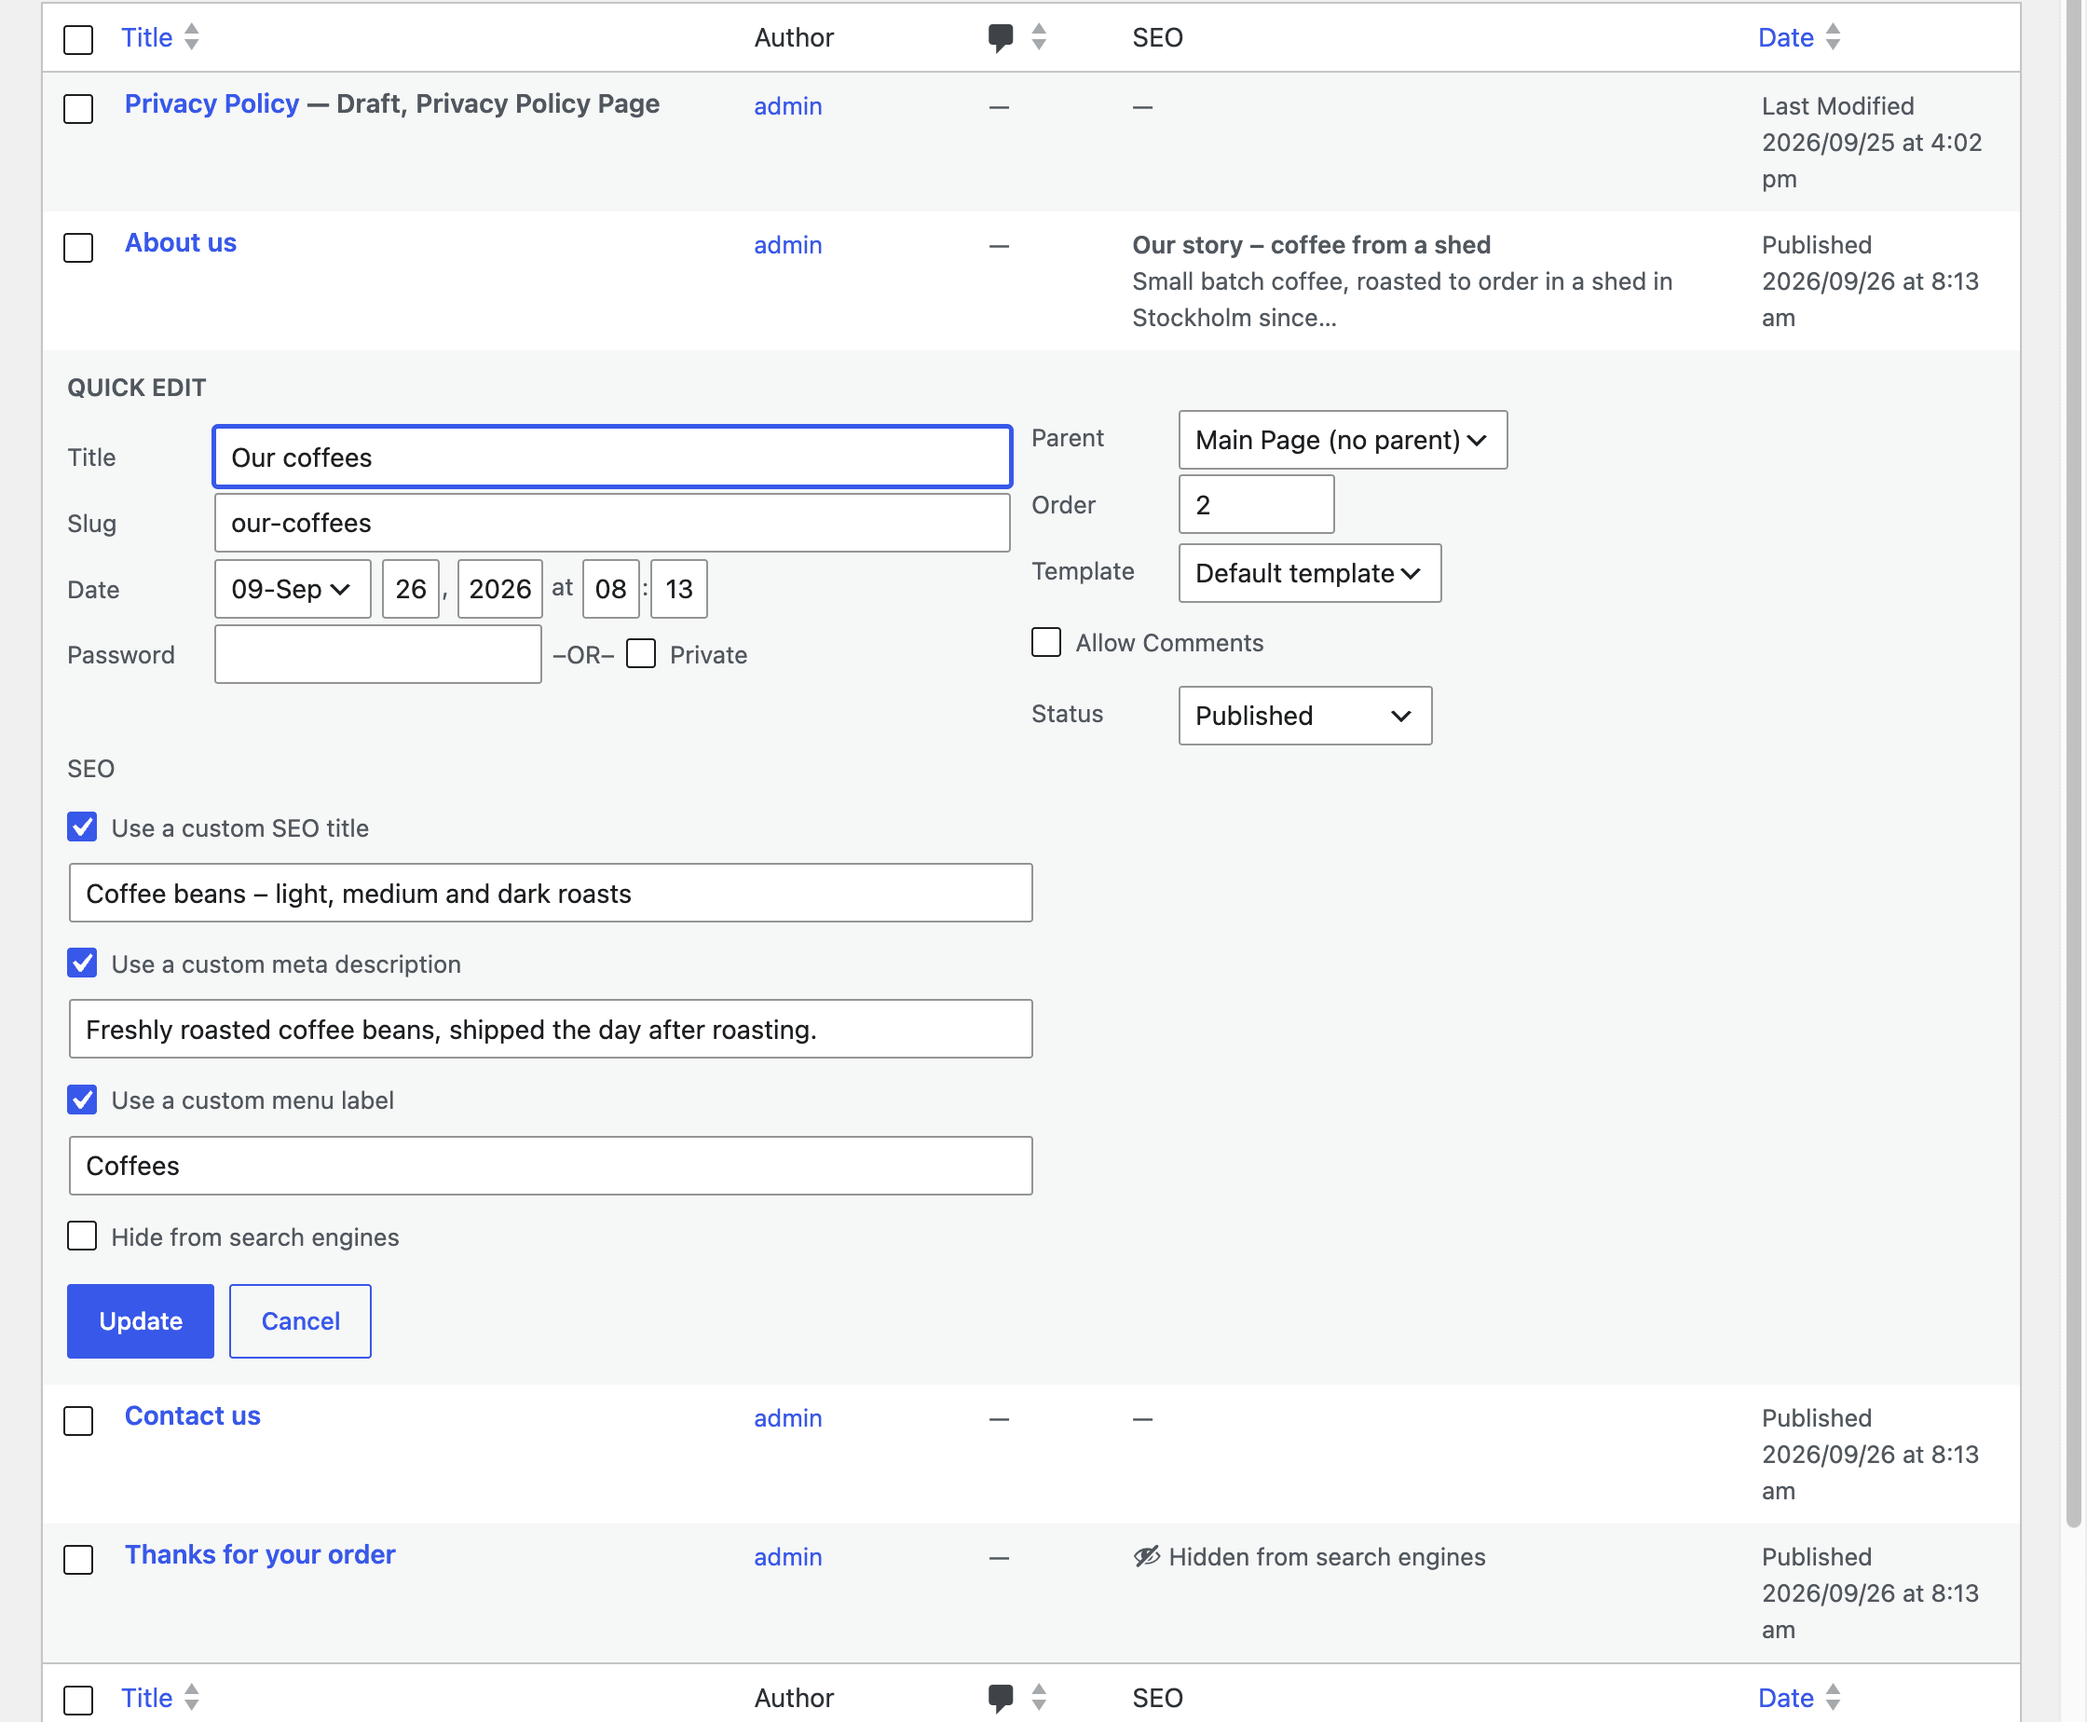
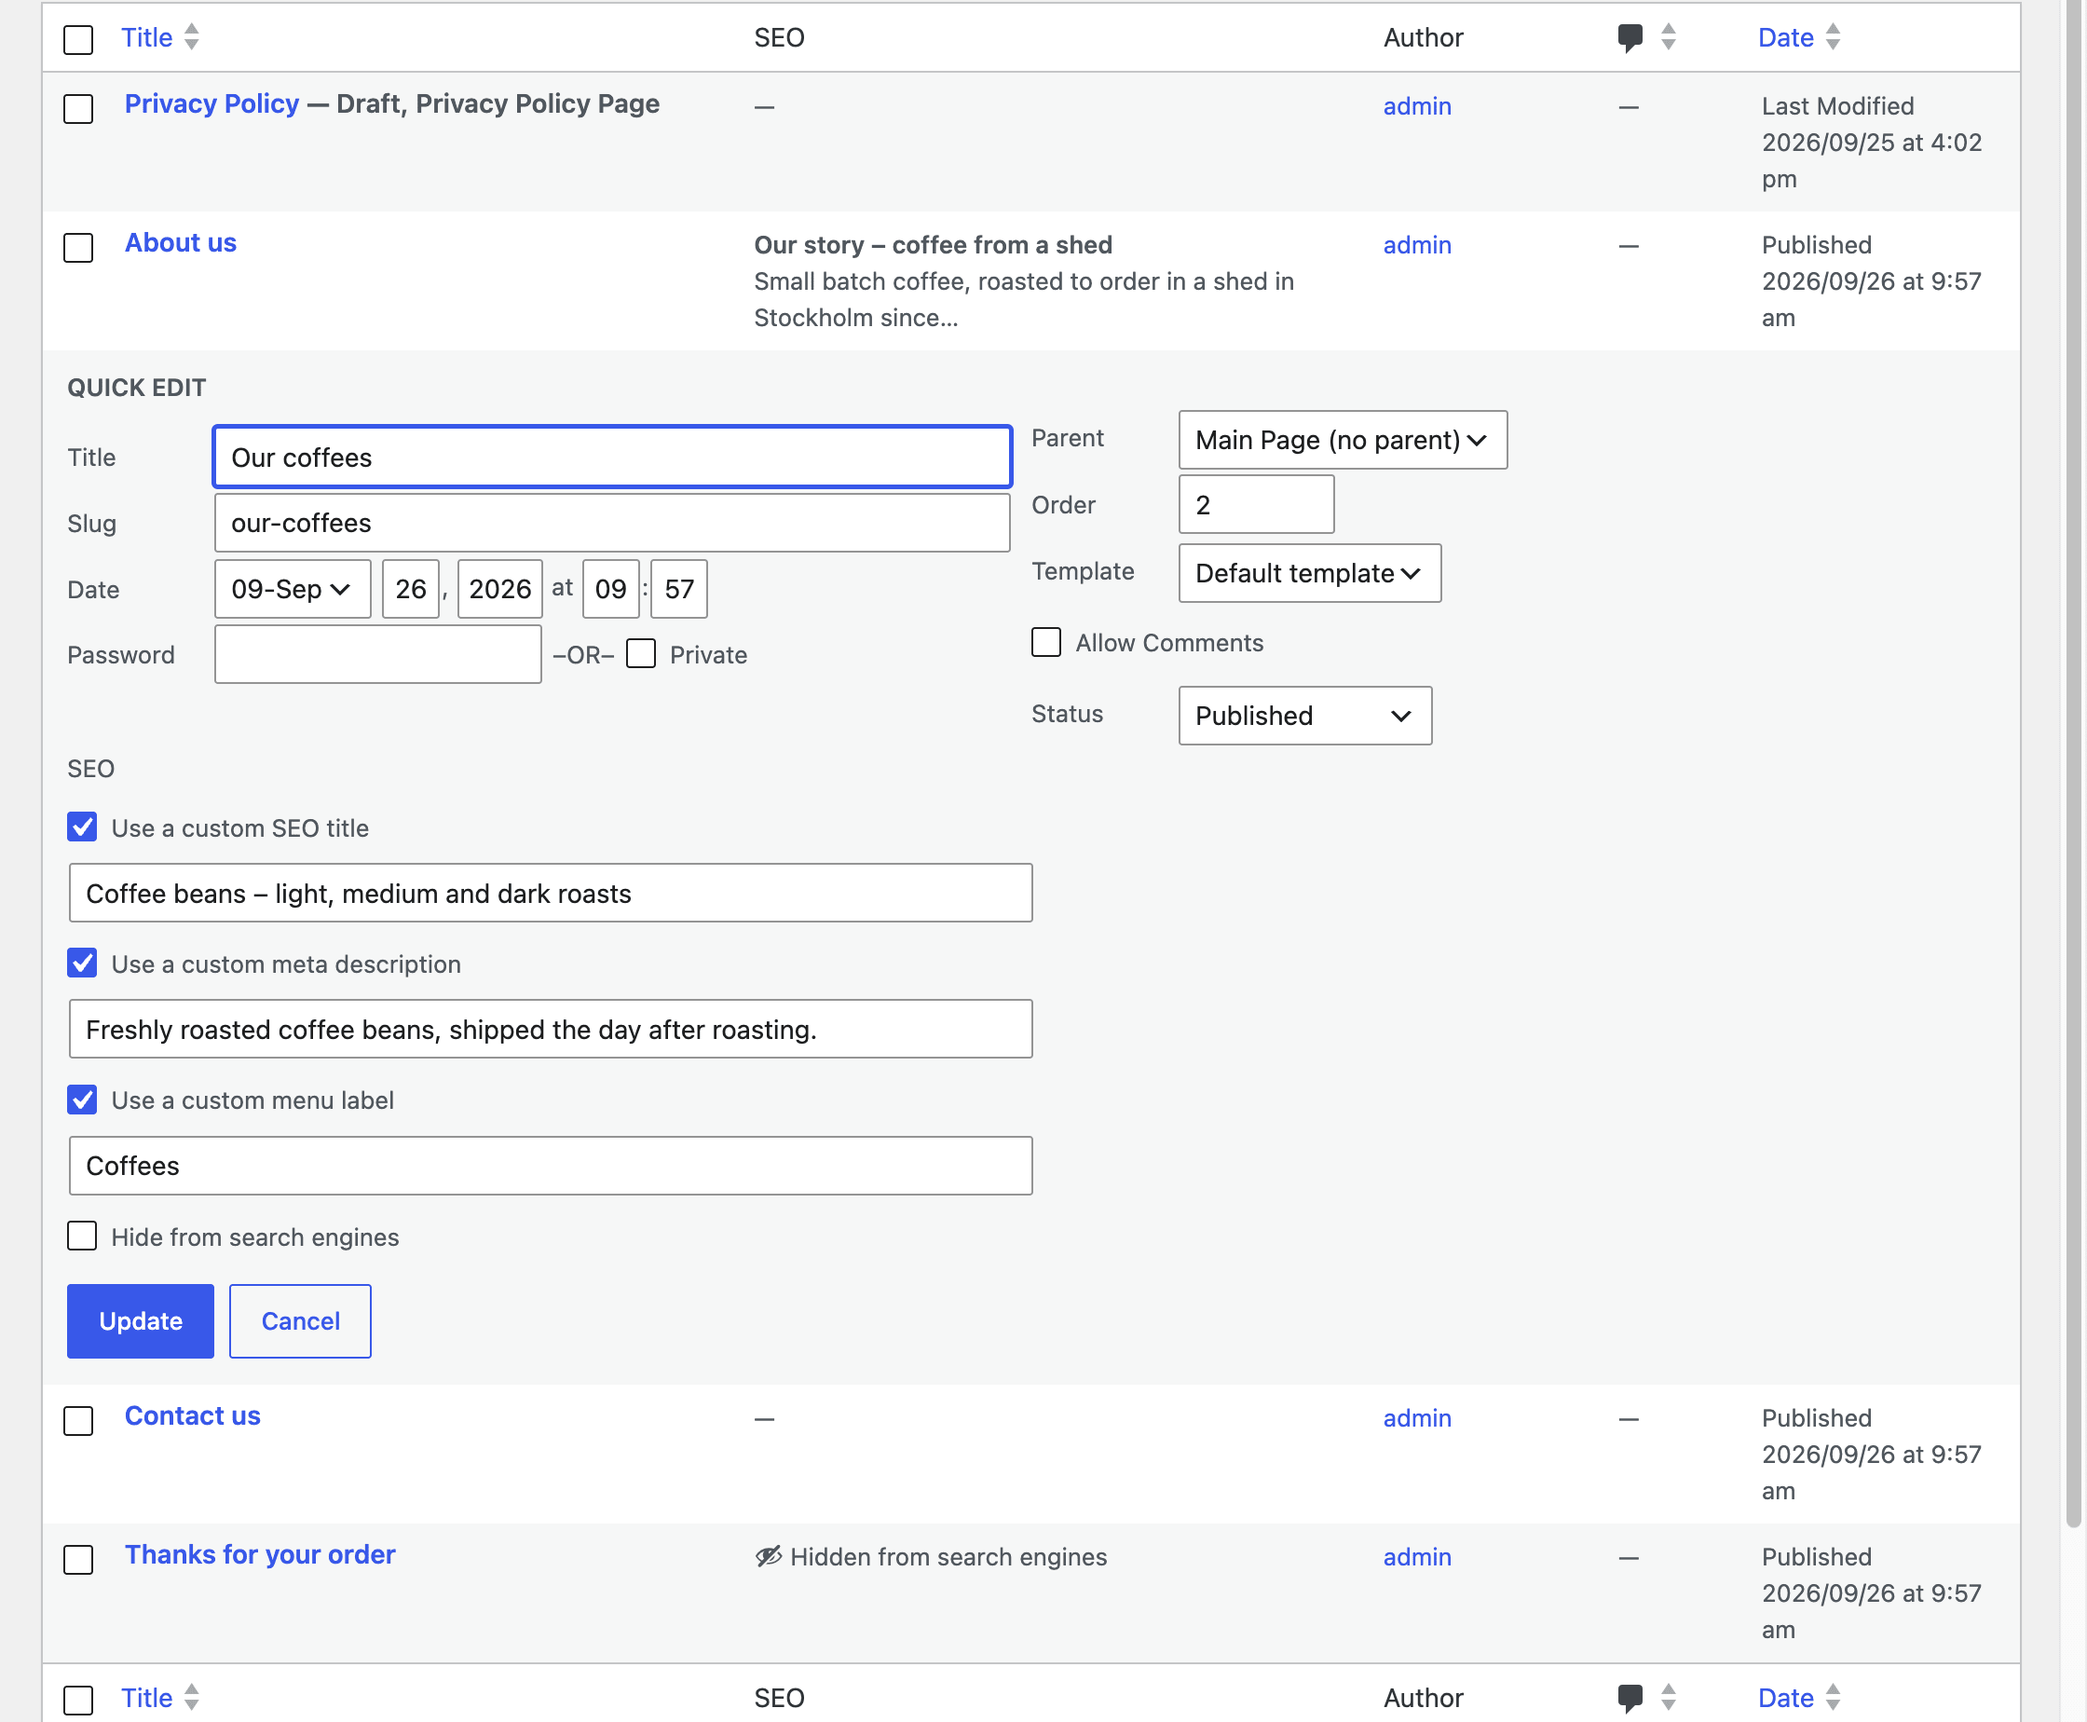
SEO column right after the title
It's the alternative to the title, so they read best side by side.
Screenshots retaken.

diff --git a/.claude/skills/visual-check/capture-screenshots.js b/.claude/skills/visual-check/capture-screenshots.js
@@ -17,9 +17,9 @@
 async ( page ) => {
 	const WP_ENV = 'http://localhost:8315';
 	const CLASSIC = 'http://wp-playground-classiceditor.test:8314';
-	const WP_ENV_PAGE = 46; // "About us" from seed.php on wp-env.
-	const WP_ENV_QUICK_EDIT = 47; // "Our coffees", opened in Quick Edit in shot 2.
-	const CLASSIC_PAGE = 81; // "About us" from seed.php on the Classic Editor site.
+	const WP_ENV_PAGE = 52; // "About us" from seed.php on wp-env.
+	const WP_ENV_QUICK_EDIT = 53; // "Our coffees", opened in Quick Edit in shot 2.
+	const CLASSIC_PAGE = 88; // "About us" from seed.php on the Classic Editor site.
 	const X = 160; // Right of the admin menu.
 	const WIDTH = 1120;
 

diff --git a/src/list-table.php b/src/list-table.php
@@ -22,7 +22,7 @@ add_action( 'quick_edit_custom_box', __NAMESPACE__ . '\\quick_edit_fields', 10, 
 add_action( 'admin_enqueue_scripts', __NAMESPACE__ . '\\enqueue_quick_edit_script' );
 
 /**
- * Add the column before the date.
+ * Add the column right after the title, since the SEO title is an alternative to it.
  *
  * @param array<string, string> $columns   Columns.
  * @param string                $post_type Post type.
@@ -35,15 +35,22 @@ function add_column( $columns, $post_type = 'page' ): array {
 		return $columns;
 	}
 
-	$date = $columns['date'] ?? null;
-	unset( $columns['date'] );
-	$columns[ COLUMN ] = __( 'SEO', 'simple-seo' );
+	$added = [];
 
-	if ( null !== $date ) {
-		$columns['date'] = $date;
+	foreach ( $columns as $key => $label ) {
+		$added[ $key ] = $label;
+
+		if ( 'title' === $key ) {
+			$added[ COLUMN ] = __( 'SEO', 'simple-seo' );
+		}
 	}
 
-	return $columns;
+	// No title column (another plugin removed it): add it at the end.
+	if ( ! isset( $added[ COLUMN ] ) ) {
+		$added[ COLUMN ] = __( 'SEO', 'simple-seo' );
+	}
+
+	return $added;
 }
 
 /**

diff --git a/tests/php/ListTableTest.php b/tests/php/ListTableTest.php
@@ -19,10 +19,11 @@ class ListTableTest extends SimpleSEO_TestCase {
 		parent::tear_down();
 	}
 
-	public function test_column_goes_before_the_date() {
-		$columns = SimpleSEO\add_column( [ 'title' => 'Title', 'date' => 'Date' ], 'post' );
+	public function test_column_goes_after_the_title() {
+		$columns = SimpleSEO\add_column( [ 'cb' => '', 'title' => 'Title', 'author' => 'Author', 'date' => 'Date' ], 'post' );
 
-		$this->assertSame( [ 'title', 'simple_seo', 'date' ], array_keys( $columns ) );
+		$this->assertSame( [ 'cb', 'title', 'simple_seo', 'author', 'date' ], array_keys( $columns ) );
+		$this->assertSame( [ 'date', 'simple_seo' ], array_keys( SimpleSEO\add_column( [ 'date' => 'Date' ], 'post' ) ) );
 		$this->assertArrayNotHasKey( 'simple_seo', SimpleSEO\add_column( [ 'title' => 'Title' ], 'attachment' ) );
 	}
 

diff --git a/CLAUDE.md b/CLAUDE.md
@@ -45,7 +45,7 @@ Released: 0.3.5. `main` holds unreleased 1.0 work.
   - The menu label only affects `get_pages()` / `wp_list_pages()`. That includes the Page List block (`wp-includes/blocks/page-list.php` calls `get_pages()`), which an empty Navigation block falls back to: WordPress creates a `wp_navigation` post containing `<!-- wp:page-list /-->` (verified in Twenty Twenty-Three on the php74 site). It does not reach classic menus or Navigation blocks with hand-picked Page Link blocks, which store their own labels.
 - Block editor: `src/block-editor.php` loads `build/editor-panel.js` (source `js/editor-panel.js`) on the post edit screen only. A "Simple SEO" `PluginDocumentSettingPanel` made of core components, reading and writing the meta with `useEntityProp`, so it saves with the post. Same checkbox + text pattern as the Classic box. It renders nothing for post types without `custom-fields` support. Keep it looking like core: stable `@wordpress/components` only (`__experimental*` fails lint), core wording and spacing, one short help line per field, the other-plugin message as a plain help paragraph (core panels don't use Notices). Pass only changed keys to `setMeta()` (meta edits are merged). Checkbox state follows the meta, local state only for "ticked but empty", so undo works. Keep `__nextHasNoMarginBottom` / `__next40pxDefaultSize` until the floor is WordPress 7.0 (default there, warnings without them on 6.7–6.9); never pass `__next40pxDefaultSize` to `TextareaControl`. Reviewed against WP 7.1 and Gutenberg trunk on 2026-09-25: no deprecated APIs, and DataForm isn't usable by plugins yet.
 - Naming (Pär, 2026-09-26, after a UX and an art director review): the block editor panel and the Classic box are "Simple SEO", so users see where they come from; the list column and the Quick Edit group are "SEO", where space is tight. Help text is one line per field (`src/admin.php`: the title help says "whole title" on the static front page, the noindex help is the full "Search engines won't list this page. Anyone with the link can still open it."). The Simple History tip only shows on posts that use the fields.
-- Posts lists (`src/list-table.php`): an "SEO" column before the date (what's used: title, description, "Hidden from search engines", or —) and the same checkbox + text fields in Quick Edit, filled by `build/quick-edit.js` from JSON the column keeps in a hidden element. Quick Edit posts the Classic box's field names, so `save_post()` in `classic-editor.php` saves both; Bulk Edit doesn't include them, so it can't touch them. The list query has already loaded the meta: no extra queries. Which post types: `has_seo_fields()` in `meta.php`, shared with the box and the panel.
+- Posts lists (`src/list-table.php`): an "SEO" column right after the title (Pär, 2026-09-26: it's related to the title) (what's used: title, description, "Hidden from search engines", or —) and the same checkbox + text fields in Quick Edit, filled by `build/quick-edit.js` from JSON the column keeps in a hidden element. Quick Edit posts the Classic box's field names, so `save_post()` in `classic-editor.php` saves both; Bulk Edit doesn't include them, so it can't touch them. The list query has already loaded the meta: no extra queries. Which post types: `has_seo_fields()` in `meta.php`, shared with the box and the panel.
 - Old 0.3.5 titles reach the REST API and the panel through `legacy_title_default()` (`default_post_metadata`). `migrate_legacy_title()` moves them to the new keys on any write of the title or its flag. Moving matters: the REST API skips values equal to the (legacy) default, so ticking the box writes only the flag.
 - Which post types get the fields (Classic box and block editor panel): those where `is_post_type_viewable()` is true, except attachments. That's deliberate (Pär, 2026-09-25): "viewable" means the post type has pages visitors and search engines can reach (`publicly_queryable`, or `public` for built-ins), which is what matters for SEO; checking `public` alone would be wrong for CPTs that set the two differently. Attachments are left out because attachment pages are off by default since WordPress 6.4. The block editor panel also needs `custom-fields` support (see todo.md).
 - Classic Editor: a plain meta box (`src/classic-editor.php`) on every viewable post type, hidden in the block editor with `__back_compat_meta_box`. Each text field is a checkbox + text, both always visible (Pär: as simple as possible, no dimming or auto-ticking); ticked = used, unticking keeps the text. Stored as the text plus a `_disabled` flag (`save_field()`); `title_field()` / `description_field()` return `[ on, text ]`. The block editor panel is still to come.
